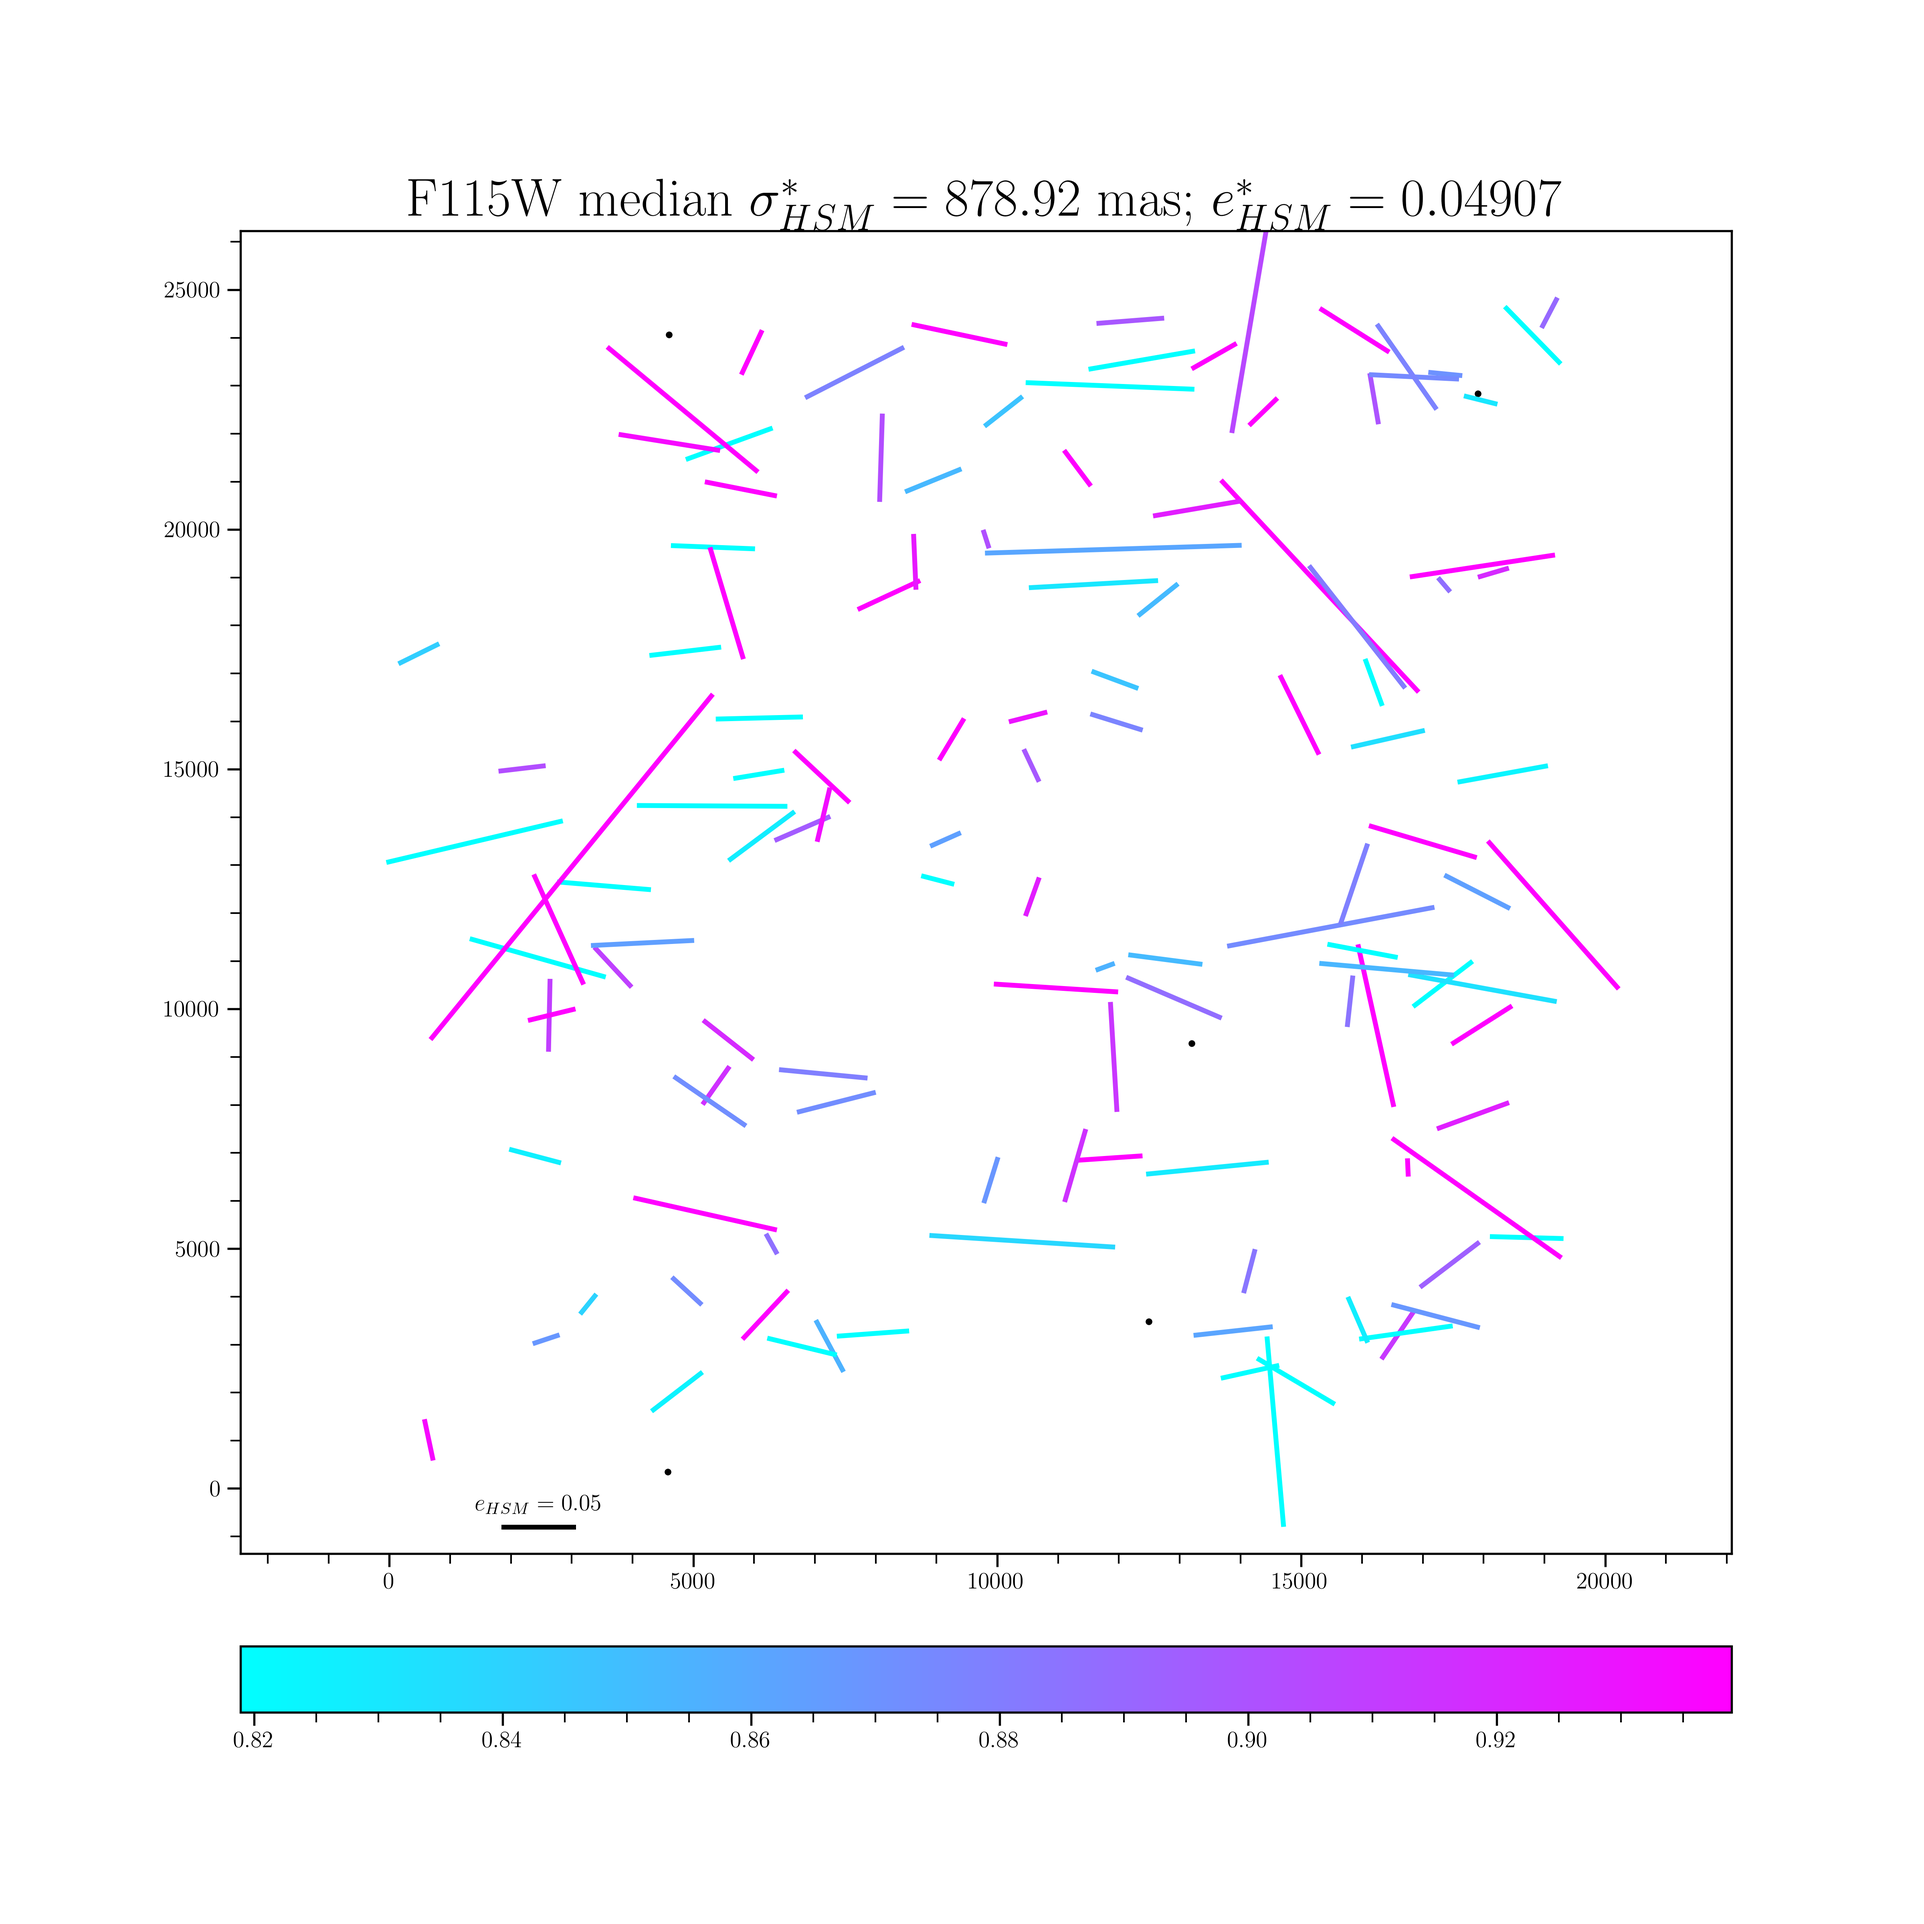
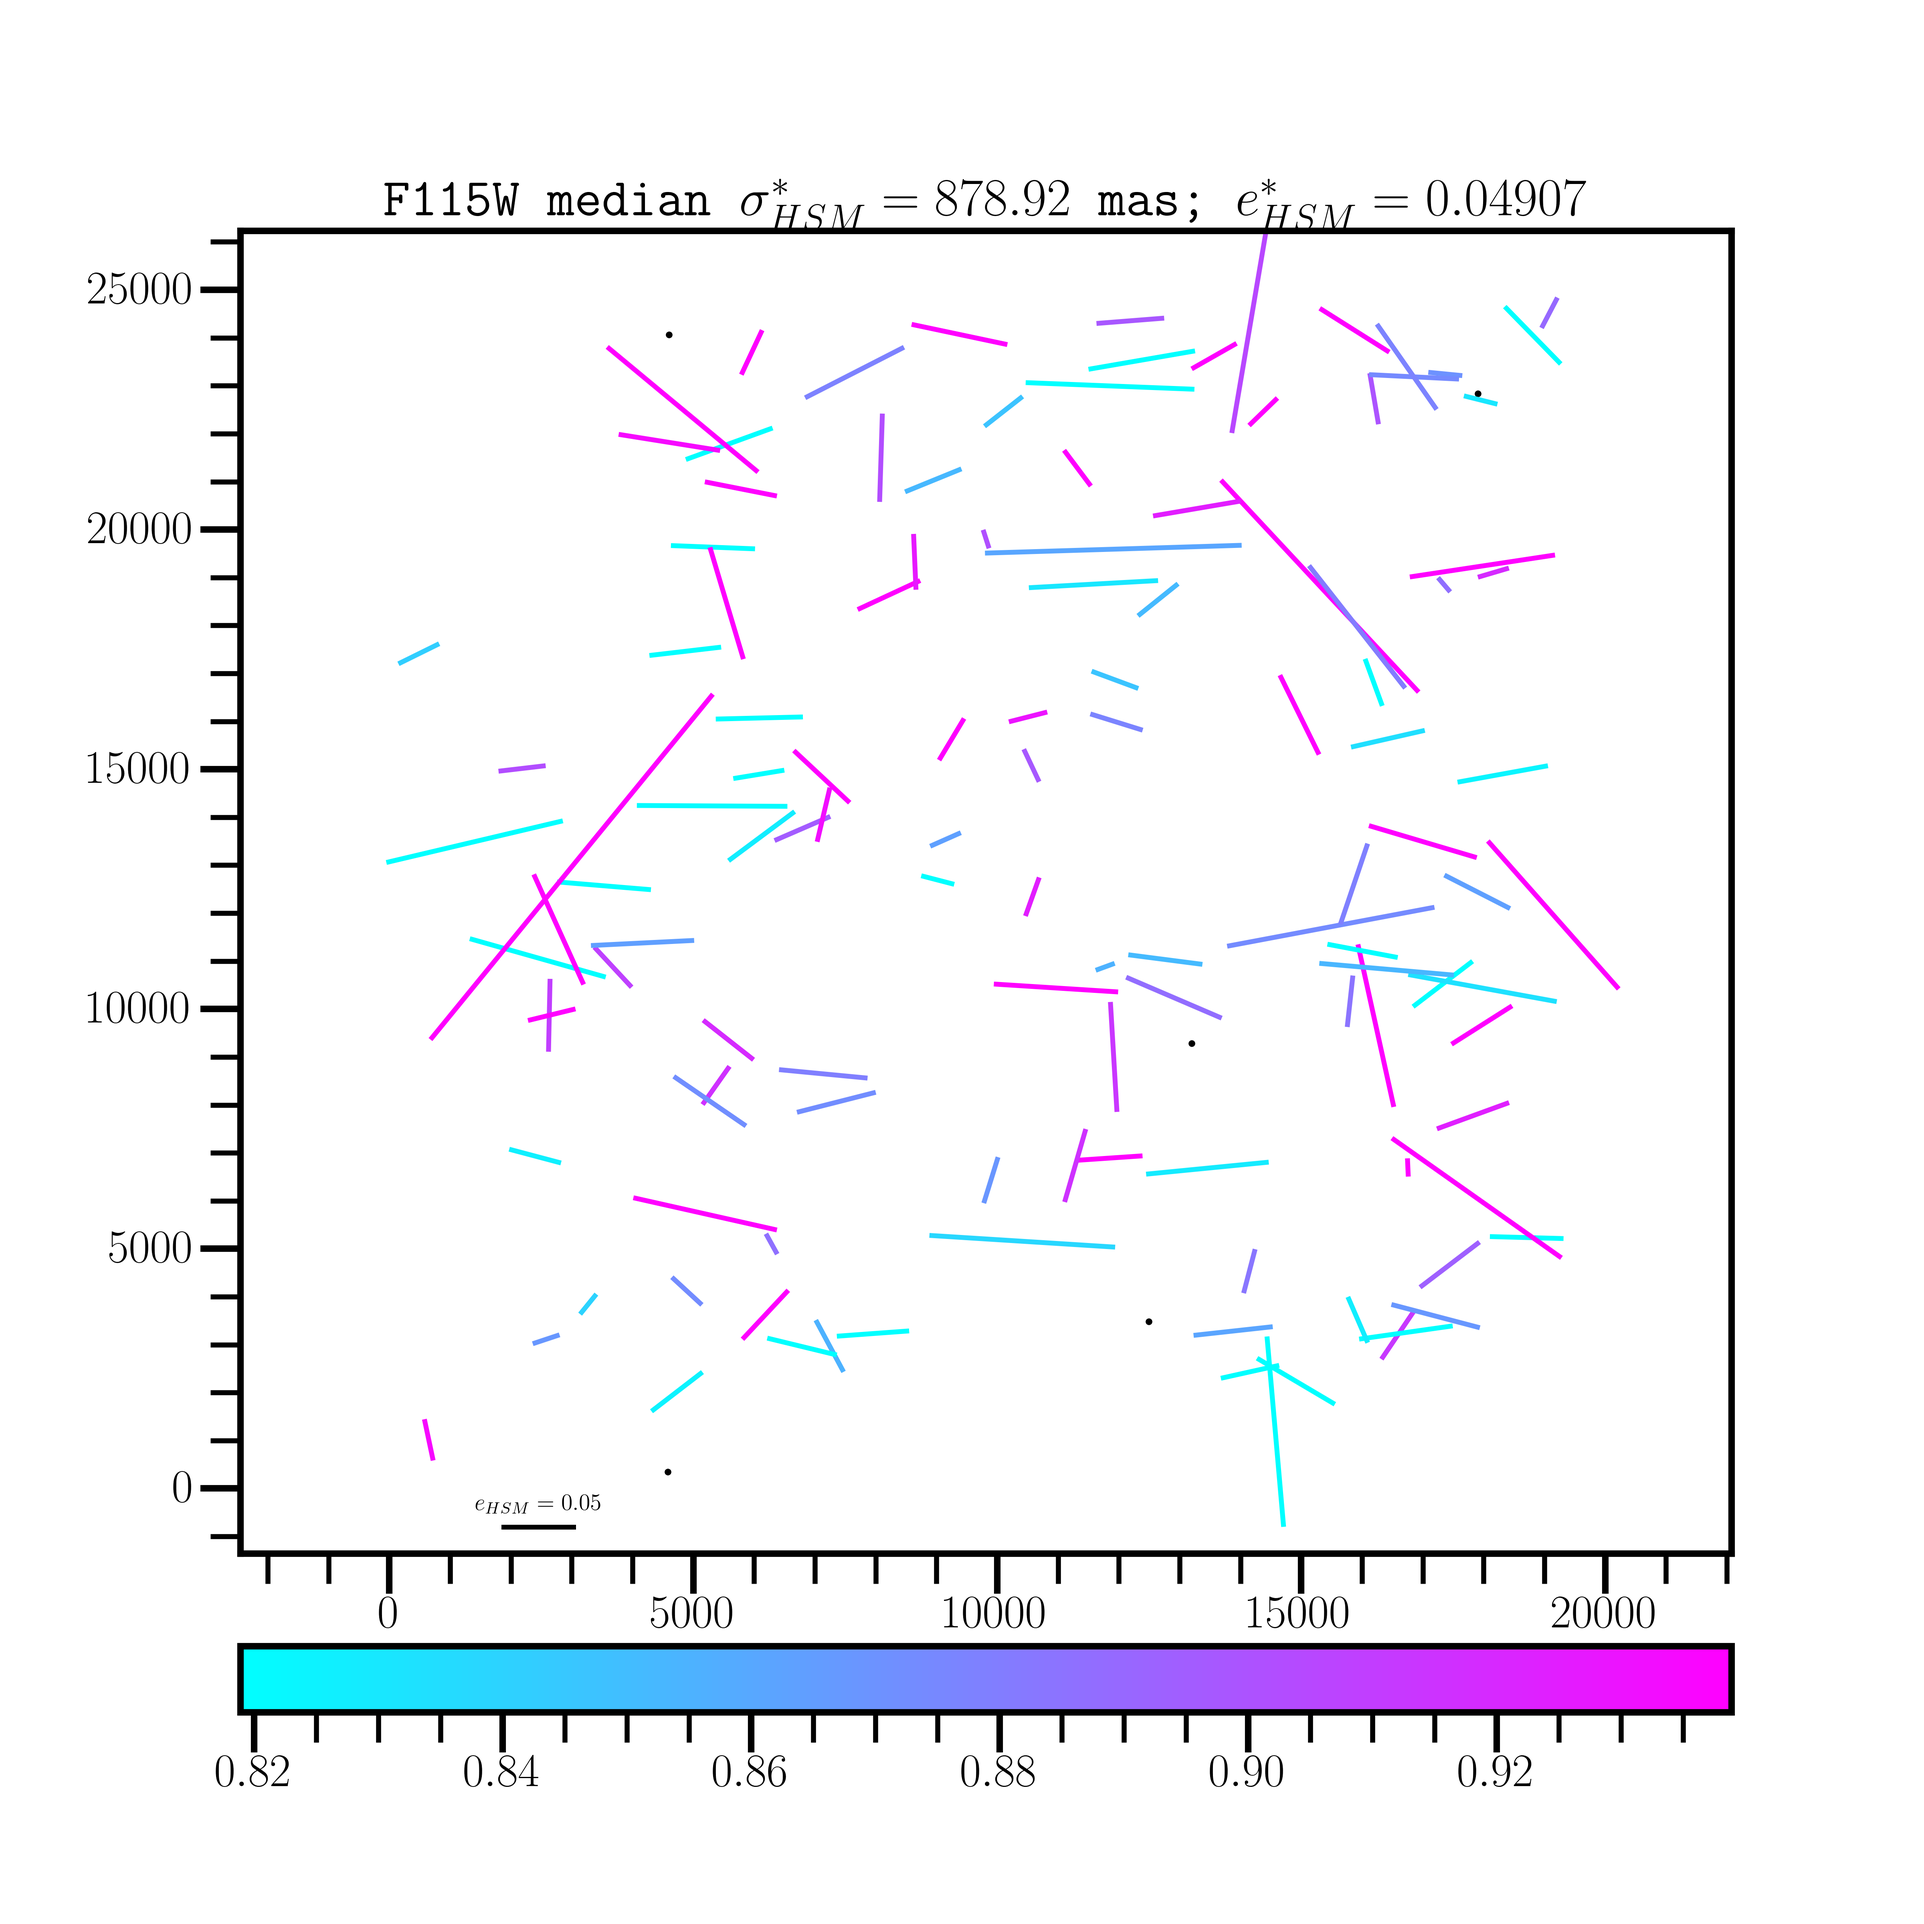
plot

diff --git a/benchmarks/vignet_quiver_plot.py b/benchmarks/vignet_quiver_plot.py
@@ -11,7 +11,7 @@ def set_rc_params(fontsize=None):
     '''
 
     if fontsize is None:
-        fontsize=16
+        fontsize=24
     else:
         fontsize=int(fontsize)
 
@@ -19,20 +19,20 @@ def set_rc_params(fontsize=None):
     rc('text', usetex=True)
 
     #plt.rcParams.update({'figure.facecolor':'w'})
-    plt.rcParams.update({'axes.linewidth': 1.3})
+    plt.rcParams.update({'axes.linewidth': 3.9})
     plt.rcParams.update({'xtick.labelsize': fontsize})
     plt.rcParams.update({'ytick.labelsize': fontsize})
-    plt.rcParams.update({'xtick.major.size': 8})
-    plt.rcParams.update({'xtick.major.width': 1.3})
+    plt.rcParams.update({'xtick.major.size': 24})
+    plt.rcParams.update({'xtick.major.width': 3.9})
     plt.rcParams.update({'xtick.minor.visible': True})
-    plt.rcParams.update({'xtick.minor.width': 1.})
-    plt.rcParams.update({'xtick.minor.size': 6})
+    plt.rcParams.update({'xtick.minor.width': 3.})
+    plt.rcParams.update({'xtick.minor.size': 18})
     plt.rcParams.update({'xtick.direction': 'out'})
-    plt.rcParams.update({'ytick.major.width': 1.3})
-    plt.rcParams.update({'ytick.major.size': 8})
+    plt.rcParams.update({'ytick.major.width': 3.9})
+    plt.rcParams.update({'ytick.major.size': 24})
     plt.rcParams.update({'ytick.minor.visible': True})
-    plt.rcParams.update({'ytick.minor.width': 1.})
-    plt.rcParams.update({'ytick.minor.size':6})
+    plt.rcParams.update({'ytick.minor.width': 3.})
+    plt.rcParams.update({'ytick.minor.size':18})
     plt.rcParams.update({'ytick.direction':'out'})
     plt.rcParams.update({'axes.labelsize': fontsize})
     plt.rcParams.update({'axes.titlesize': fontsize})
@@ -40,7 +40,7 @@ def set_rc_params(fontsize=None):
 
     return
 
-set_rc_params(fontsize=14)
+set_rc_params(fontsize=28)
 
 f115w = fits.open('revised_apr_f115w_shopt_xy_info.fits')
 
@@ -120,7 +120,8 @@ qkey_dict = dict(
 
 plt.rcParams.update({'xtick.direction': 'out'})
 plt.rcParams.update({'ytick.direction': 'out'})
-plt.rcParams.update({'legend.fontsize': 14})
+plt.rcParams.update({'legend.fontsize': 28})
+plt.rcParams.update({'font.family': 'monospace'})
 
 star_title = \
             'F115W median $\sigma^{*}_{HSM} = %.2f$ mas; $e^{*}_{HSM} = %.5f$'\
@@ -148,10 +149,10 @@ cax = ax_divider.append_axes("bottom", size="5%", pad="7%")
 cbar = fig.colorbar(q, cax=cax, orientation="horizontal")
 
 
-print("Vignet:")
-print(f'g1 = {np.mean(g1_vignet)} +/- {np.std(g1_vignet)}, g2 = {np.mean(g2_vignet)} +/- {np.std(g2_vignet)}, sigma = {np.mean(sig_vignet)} +/- {np.std(sig_vignet)}')
-print(f'Ra = {np.mean(f115w_hsm["ra"])} +/- {np.std(f115w_hsm["ra"])}')
-print(f'Dec = {np.mean(f115w_hsm["dec"])} +/- {np.std(f115w_hsm["dec"])}')
+#print("Vignet:")
+#print(f'g1 = {np.mean(g1_vignet)} +/- {np.std(g1_vignet)}, g2 = {np.mean(g2_vignet)} +/- {np.std(g2_vignet)}, sigma = {np.mean(sig_vignet)} +/- {np.std(sig_vignet)}')
+#print(f'Ra = {np.mean(f115w_hsm["ra"])} +/- {np.std(f115w_hsm["ra"])}')
+#print(f'Dec = {np.mean(f115w_hsm["dec"])} +/- {np.std(f115w_hsm["dec"])}')
 plt.savefig('/home/eddieberman/research/mcclearygroup/AstroCorr/assets/vignet_f115w_hsm_quiver.png', dpi=300)
 
 
